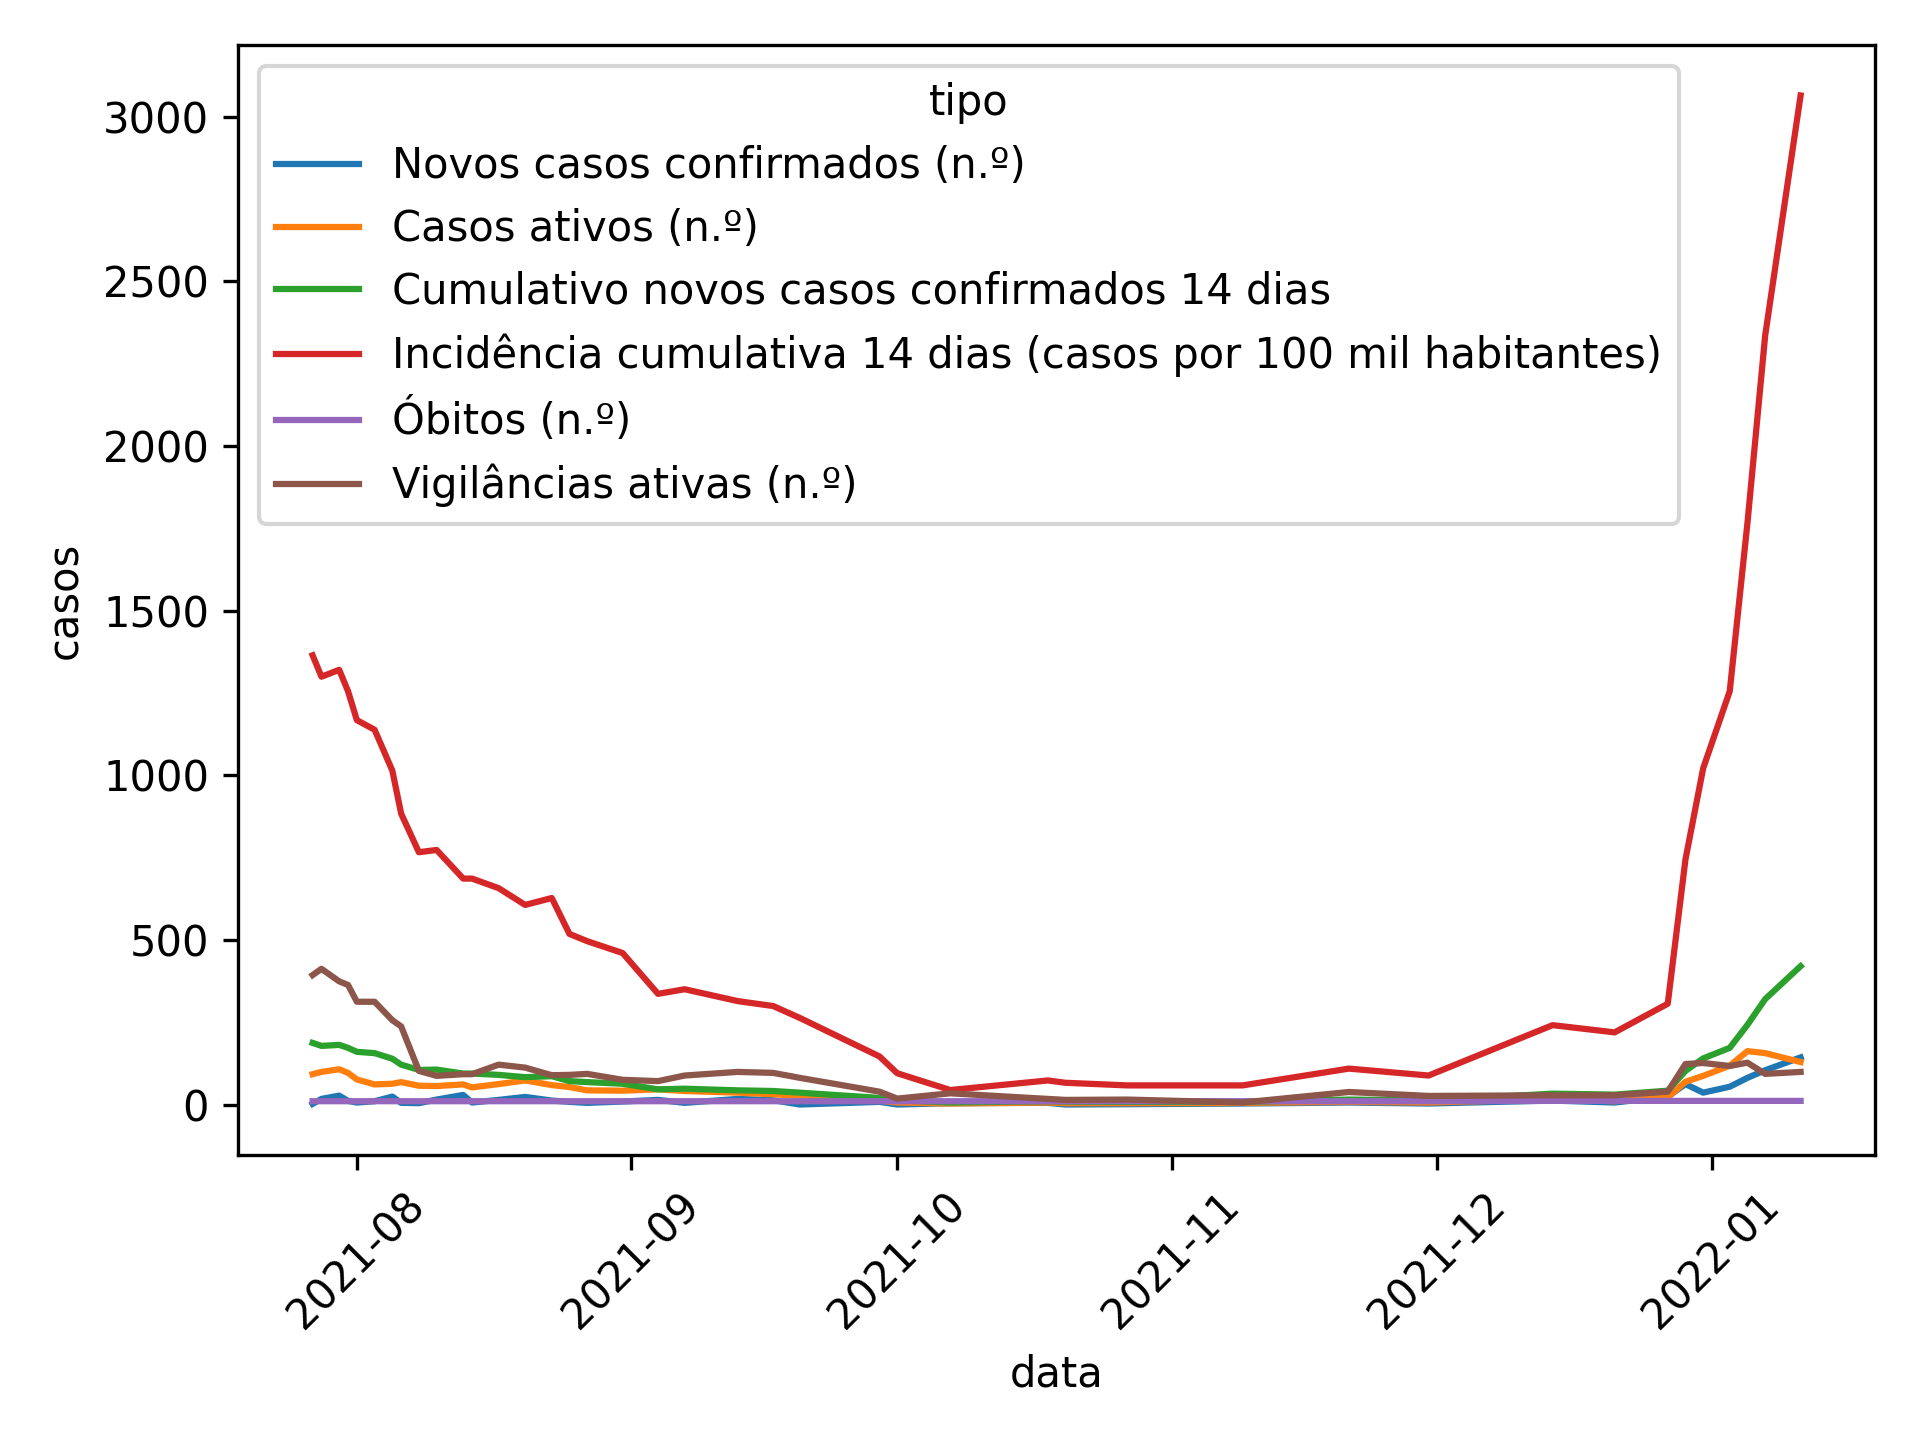
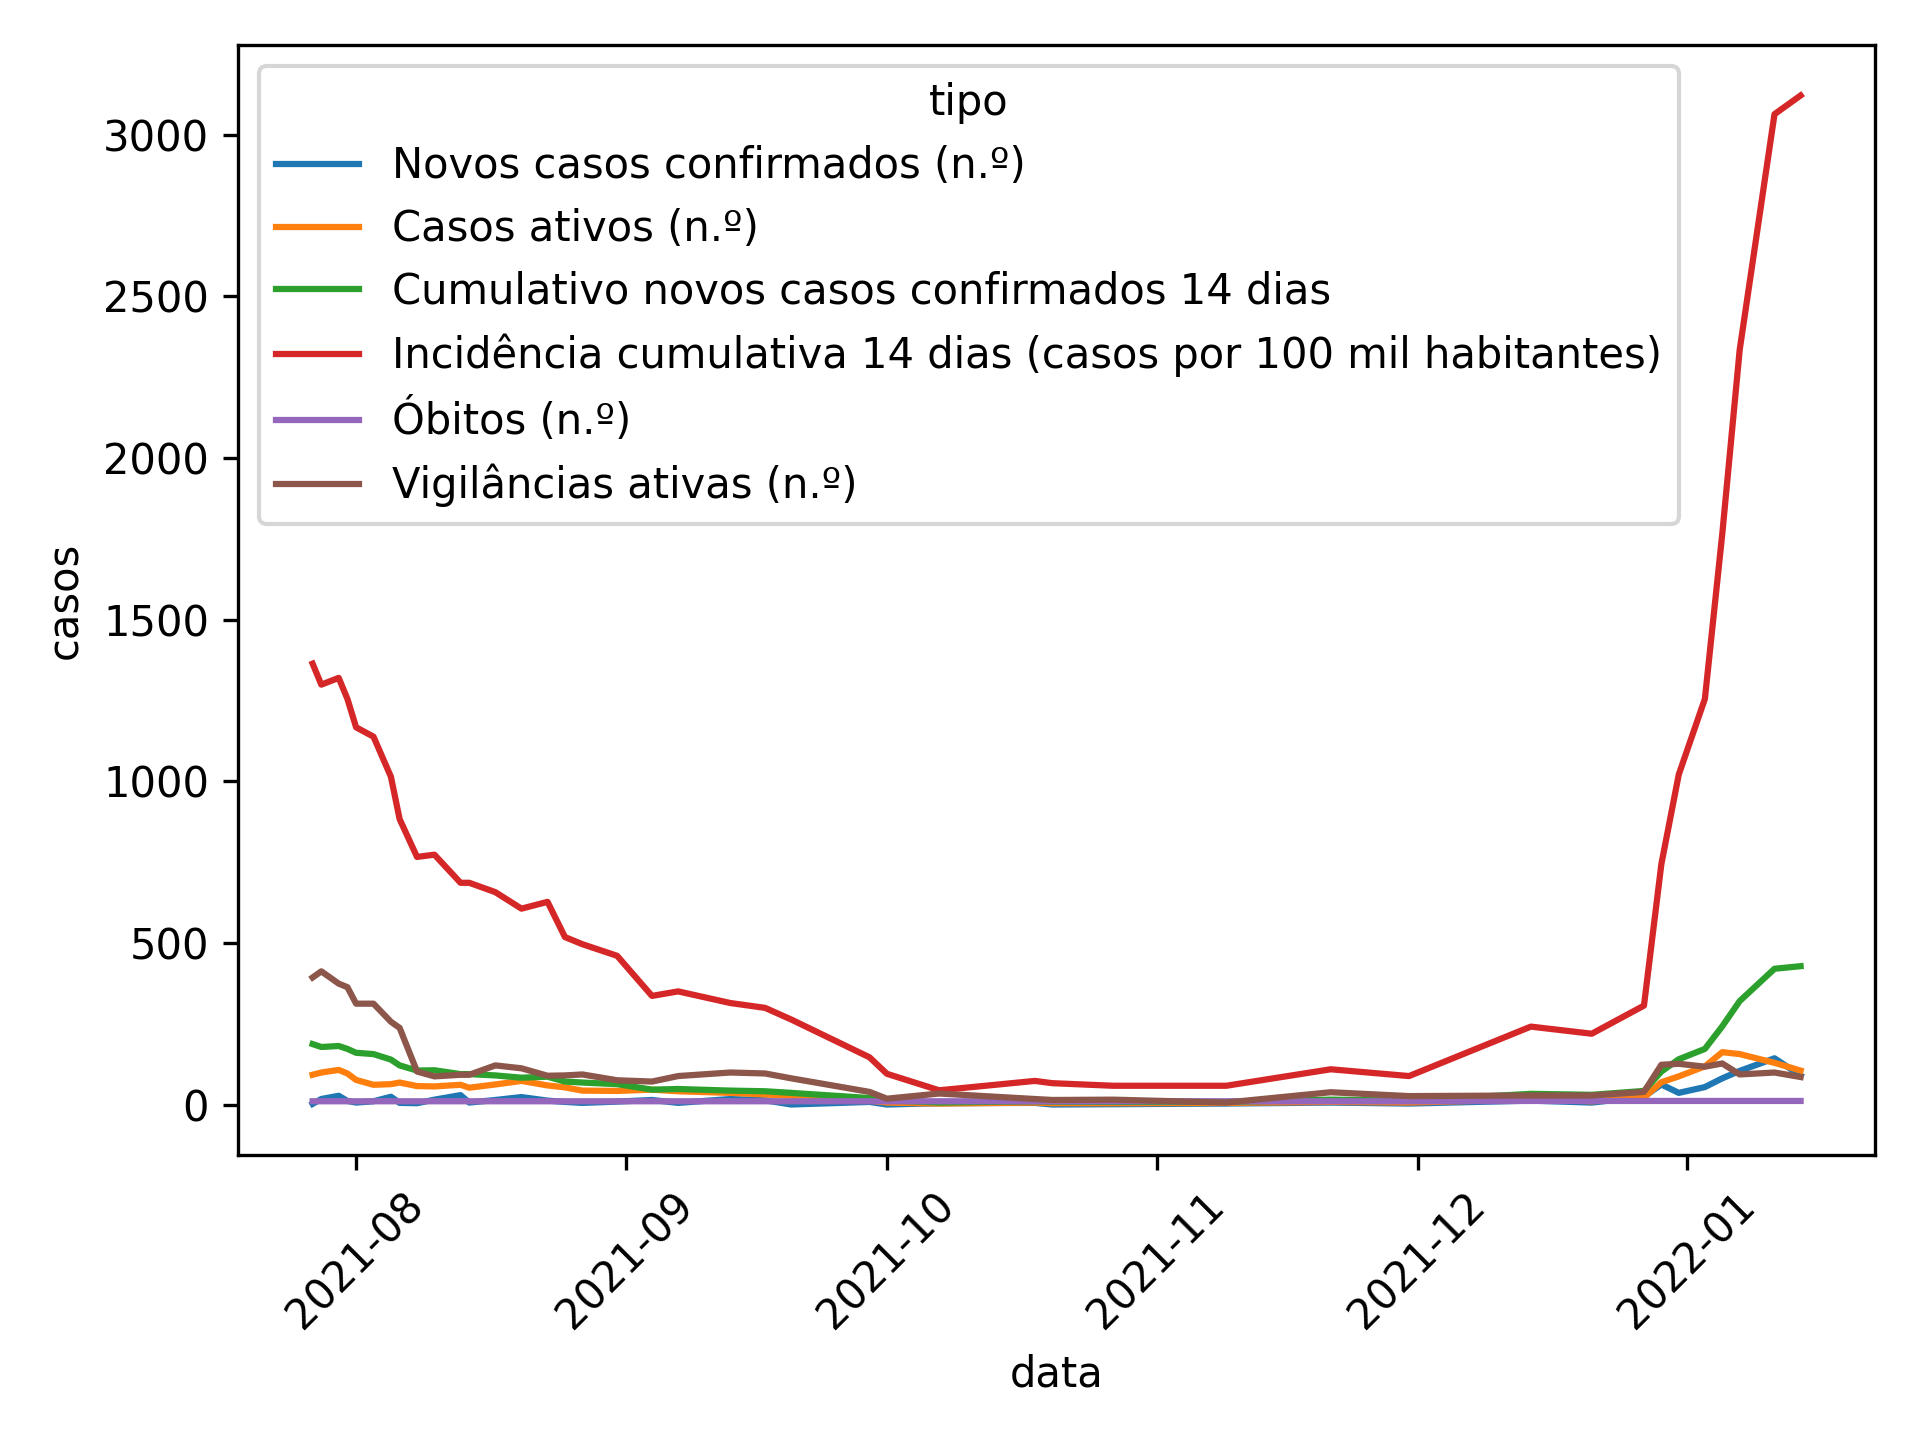
Apply automatic changes

diff --git a/README.md b/README.md
@@ -6,7 +6,6 @@
 
 | data       |   Novos casos confirmados (n.º) |   Casos ativos (n.º) |   Cumulativo novos casos confirmados 14 dias |   Incidência cumulativa 14 dias (casos por 100 mil habitantes) |   Óbitos (n.º) |   Vigilâncias ativas (n.º) |
 |:-----------|--------------------------------:|---------------------:|---------------------------------------------:|---------------------------------------------------------------:|---------------:|---------------------------:|
-| 18-10-2021 |                               5 |                    6 |                                           10 |                                                             73 |             10 |                         17 |
 | 20-10-2021 |                               0 |                    4 |                                            9 |                                                             66 |             10 |                         14 |
 | 27-10-2021 |                               1 |                    4 |                                            8 |                                                             58 |             10 |                         15 |
 | 09-11-2021 |                               3 |                    5 |                                            8 |                                                             58 |             10 |                          6 |
@@ -21,3 +20,4 @@
 | 05-01-2022 |                              81 |                  162 |                                          242 |                                                           1766 |             11 |                        127 |
 | 07-01-2022 |                             104 |                  156 |                                          320 |                                                           2335 |             11 |                         93 |
 | 11-01-2022 |                             143 |                  129 |                                          420 |                                                           3064 |             11 |                         99 |
+| 14-01-2022 |                              90 |                  105 |                                          428 |                                                           3122 |             11 |                         85 |
